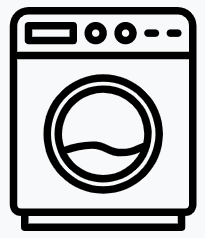
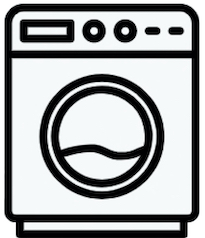
Laundromat.html picture update

diff --git a/LaundryMan/laundromat.html b/LaundryMan/laundromat.html
@@ -165,7 +165,7 @@
 				<div class="col-lg-3 col-md-4 col-sm-6 col-xs-12">
 					<div class="hovereffect1">
 						<div class="test">
-						<img class="img-responsive" id="unava1" src="assets/images/laundryM.jpg" alt="" onclick="reservationx()">
+						<img class="img-responsive" id="unava1" src="assets/images/laundryM1.jpg" alt="" onclick="reservationx()">
 					</div>
 						<div class="overlay">
 							<div class="countdown2"></div>
@@ -192,7 +192,7 @@
 				</div>
 				<div class="col-lg-3 col-md-4 col-sm-6 col-xs-12">
 					<div class="hovereffect1">
-						<img class="img-responsive" id="unava2" src="assets/images/laundryM.jpg" alt="" onclick="reservationx()">
+						<img class="img-responsive" id="unava2" src="assets/images/laundryM1.jpg" alt="" onclick="reservationx()">
 						<div class="overlay">
 							<h3>NO.6 &nbsp;&nbsp;&nbsp;&nbsp;&nbsp;&nbsp;&nbsp;&nbsp;&nbsp;&nbsp;Unavailable</h3>
 						</div>
@@ -200,7 +200,7 @@
 				</div>
 				<div class="col-lg-3 col-md-4 col-sm-6 col-xs-12">
 					<div class="hovereffect1">
-						<img class="img-responsive" id="unava3" src="assets/images/laundryM.jpg" alt="" onclick="reservationx()">
+						<img class="img-responsive" id="unava3" src="assets/images/laundryM1.jpg" alt="" onclick="reservationx()">
 						<div class="overlay">
 							<h3>NO.7 &nbsp;&nbsp;&nbsp;&nbsp;&nbsp;&nbsp;&nbsp;&nbsp;&nbsp;&nbsp;Unavailable</h3>	
 						</div>
